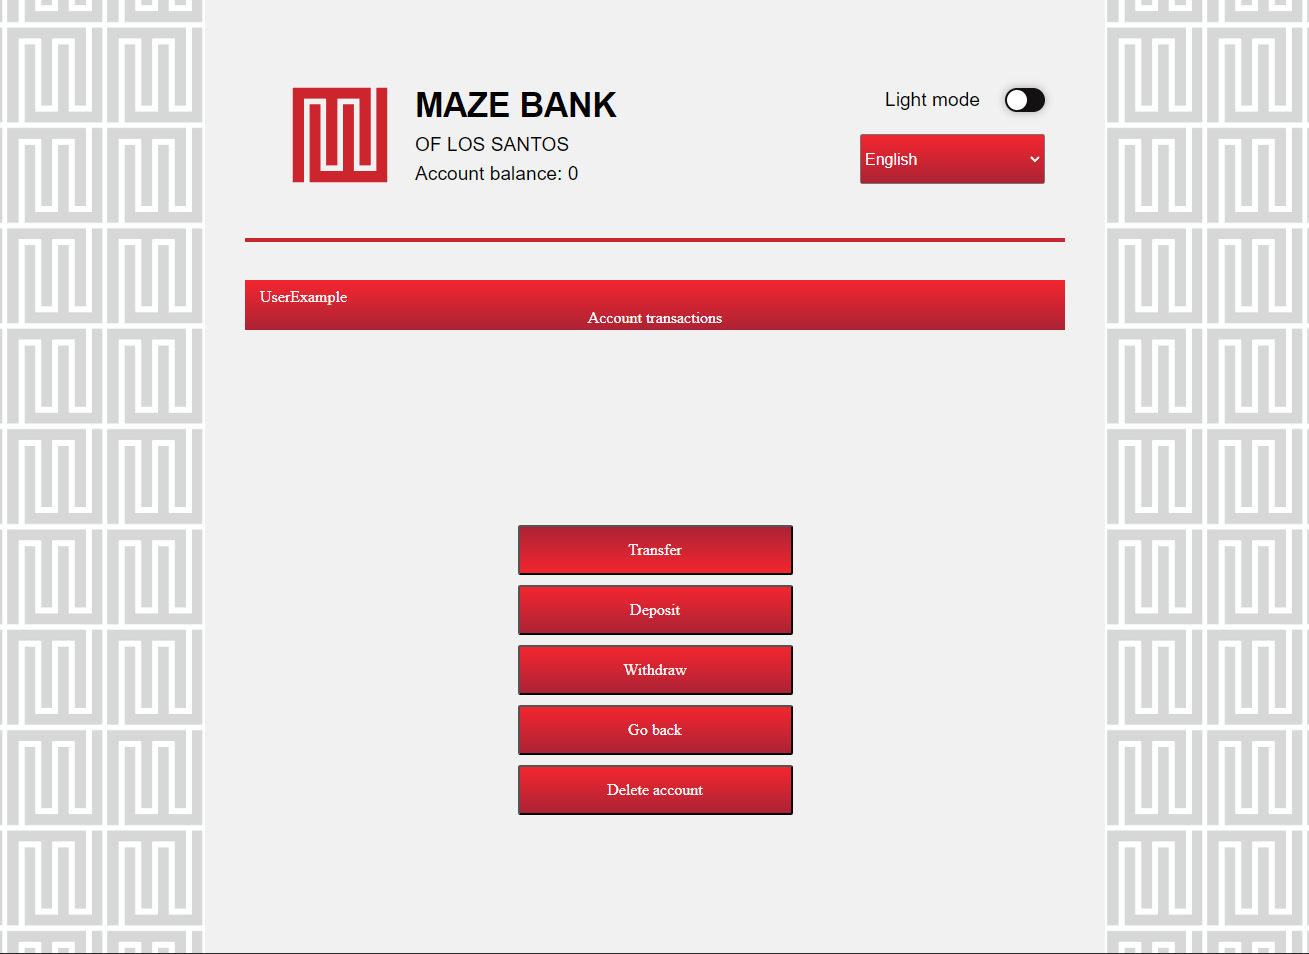
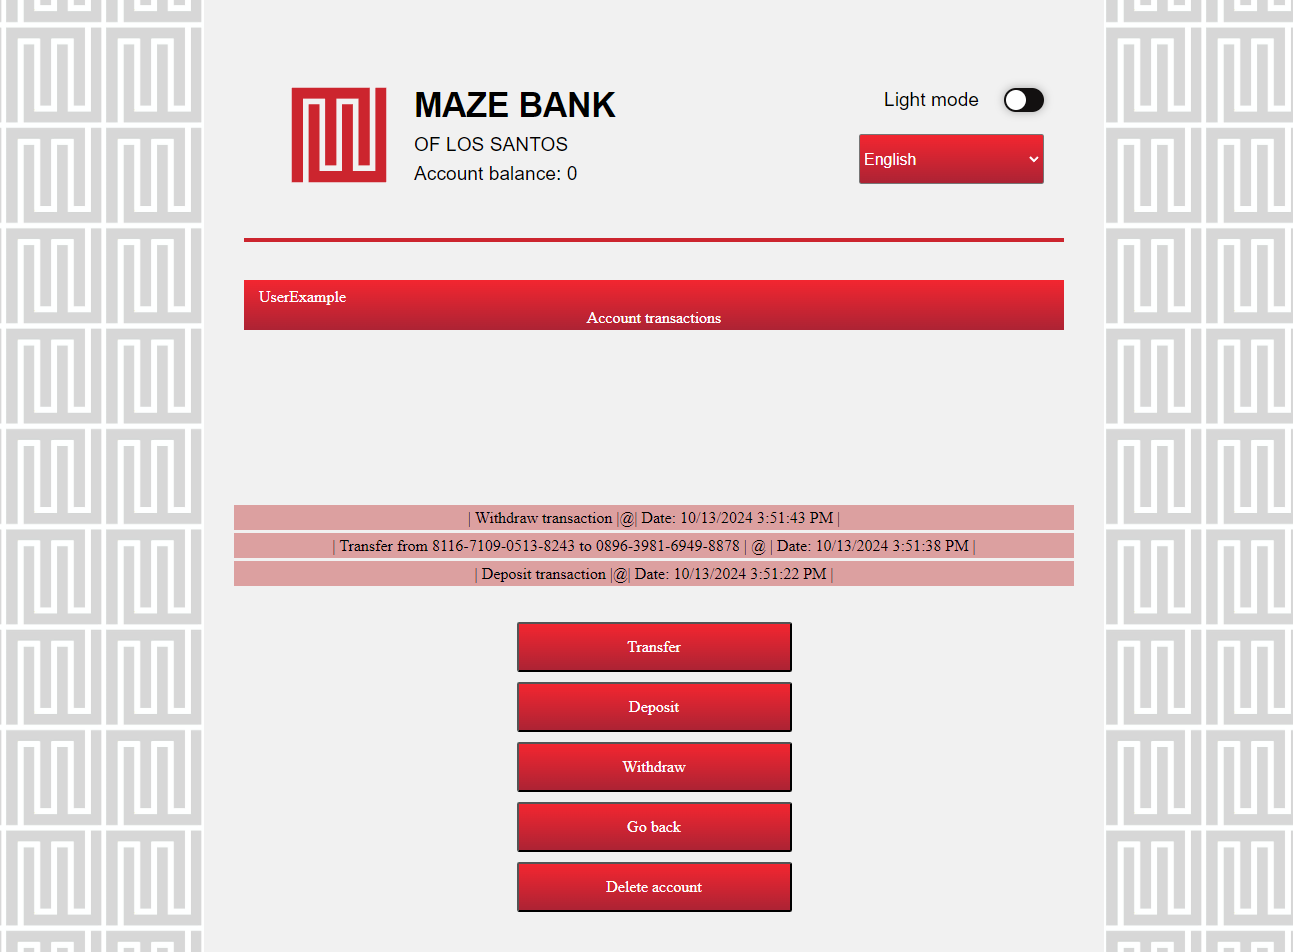
Added new assets file for README.md, create the data in README.md

diff --git a/README.md b/README.md
@@ -1,0 +1,24 @@
+# <img src="https://github.com/Okarpets/MazeBank/blob/main/BankProject/assets/icon-light.svg" alt="MazeFavico" width="48" height="48"> MazeBank
+.NET MVC SPA + API
+
+## About the application
+The MazeBank is a robust ASP.NET Core project built on a three-layer architecture with repositories, designed to revolutionize the management of bank facilities. It offers a comprehensive solution for administrators and users, combining advanced features with a user-friendly interface.
+
+## Key Features
+* ***User Login Form***: The MazeBank Application features a secure login form that requires users to enter their correct email address and password for successful authentication. This ensures that only authorized individuals can access the application and its features.
+![login_page](https://github.com/Okarpets/MazeBank/blob/main/BankProject/assets/login_page.png)
+
+* ***User functionality***: The application provides a powerful user role with extensive privileges. Users can easily make transfers, deposits, withdrawals, user account deletion, card deletion, password and username changes are also possible
+![user_panel](https://github.com/Okarpets/MazeBank/blob/main/BankProject/assets/user_panel.png)
+
+* ***Admin Functionality***: The application includes a powerful administrator role with extensive privileges. Administrators can easily conduct transactions and create new administrators, ensuring efficient management of the entire system.
+![admin_panel](https://github.com/Okarpets/MazeBank/blob/main/BankProject/assets/admin_panel.png)
+
+* ***Transaction Panel***: MazeBank provides a complete overview of the history for each bank transaction. This section provides valuable information about your transactions, allows you to conduct transactions.
+![transaction_page](https://github.com/Okarpets/MazeBank/blob/main/BankProject/assets/transaction_page.png)
+
+* ***Transaction Information***: Detailed information about each banking transaction, including ID, date, participants in the transaction. Users can easily download these data in PDF format.
+![transaction_detail](https://github.com/Okarpets/MazeBank/blob/main/BankProject/assets/transaction_detail.png)
+
+* ***Controller examples***:
+![all_controllers](https://github.com/Okarpets/MazeBank/blob/main/BankProject/assets/all_controllers.png)
